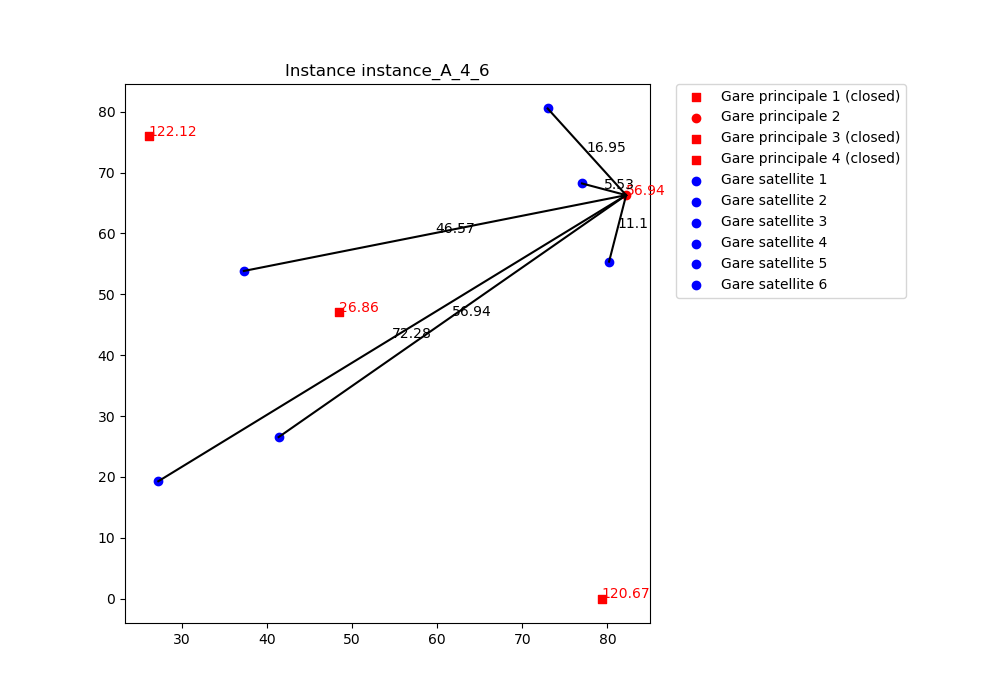
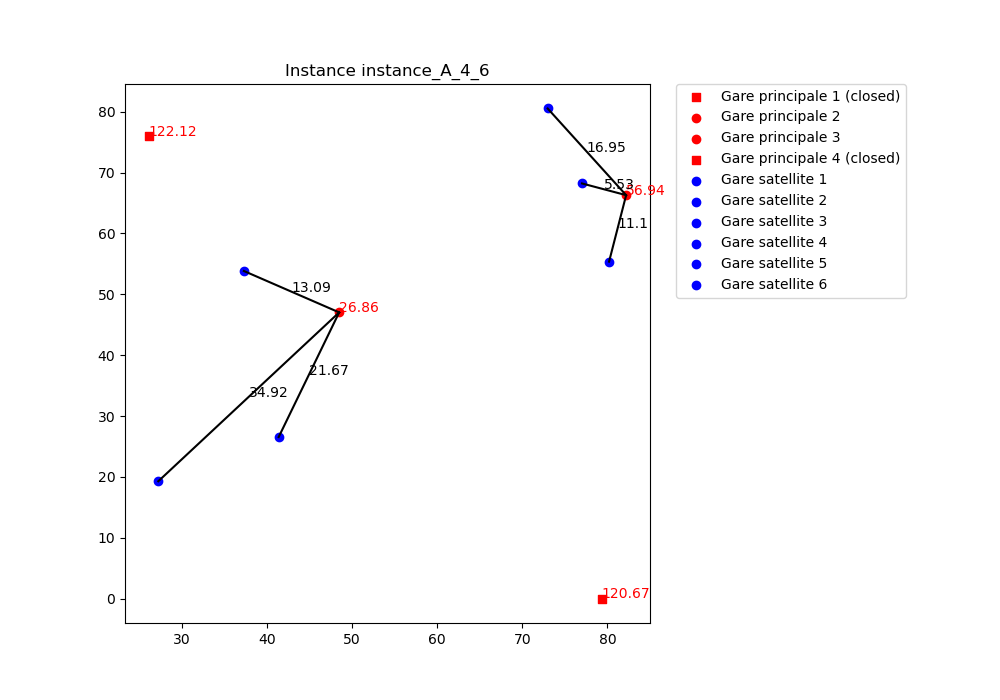
local search

diff --git a/Devoir_2/RechercheLocale/solver.py b/Devoir_2/RechercheLocale/solver.py
@@ -1,11 +1,23 @@
 from uflp import UFLP
+import random
 from typing import List, Tuple
 """ 
     Binome 1 : Nom Prenom (Matricule)
     Binome 2 : Nom Prenom (Matricule)
     Description succinte de l'implementation :
+
+    L'implémentation de recherche locale que nous avons réalisée se base sur la métaheuristique des restarts.
+    Lorsque l'algorithme atteint un minimum local, il redémarre à partir d'une nouvelle solution initiale aléatoire.
+
+    Les solutions initiales sont obtenues en utilisant deux heuristiques différentes:
+        - La première heuristique est se base sur le coût total de la solution, c'est-à-dire le coût d'ouverture des
+          gares principales et le coût d'association des gares satellites aux gares principales.
+        - La deuxième heuristique est quant à elle basée uniquement sur le cout d'association des gares satellites
+          aux gares principales.
     ...
 """
+
+NUMBER_OF_RESTARTS = 6
 
 def solve(problem: UFLP) -> Tuple[List[int], List[int]]:
     """
@@ -19,4 +31,174 @@ def solve(problem: UFLP) -> Tuple[List[int], List[int]]:
         La premiere valeur est une liste représentant les stations principales ouvertes au format [0, 1, 0] qui indique que seule la station 1 est ouverte
         La seconde valeur est une liste représentant les associations des stations satellites au format [1 , 4] qui indique que la premiere station est associée à la station pricipale d'indice 1 et la deuxieme à celle d'indice 4
     """
-    return None, None
+
+    random_main_opened, random_satellite_association = random_solution(problem)
+    
+    # Variables to store the two initial solutions
+    assoc_sol_heuristic = random_main_opened.copy(), random_satellite_association.copy()
+    total_cost_sol_heuristic = random_main_opened.copy(), random_satellite_association.copy()
+
+    total_cost_sol_heuristic = find_solution_by_heuristic(problem, total_cost_sol_heuristic, heuristic='total_cost')
+    assoc_sol_heuristic = find_solution_by_heuristic(problem, assoc_sol_heuristic, heuristic='association_cost')
+
+    assoc_cost_heuristic = problem.calculate_cost(assoc_sol_heuristic[0], assoc_sol_heuristic[1])
+    total_cost_heuristic = problem.calculate_cost(total_cost_sol_heuristic[0], total_cost_sol_heuristic[1])
+
+    heuristic_costs = [assoc_cost_heuristic, total_cost_heuristic]
+    heuristic_solutions = [assoc_sol_heuristic, total_cost_sol_heuristic]
+
+    # Store the current lowest cost and its solution
+    best_design_cost = min(heuristic_costs)
+    best_design_sol = heuristic_solutions[heuristic_costs.index(best_design_cost)]
+
+    current_cost = 0
+    current_solution = []
+
+    # Local Search with restarts
+    for i in range(NUMBER_OF_RESTARTS):
+
+        # Use each initial solution on half of the restarts
+        if max(heuristic_costs) > (min(heuristic_costs) * 2):
+            current_cost = min(heuristic_costs)
+            current_solution = heuristic_solutions[heuristic_costs.index(current_cost)]
+        else:
+            current_cost = heuristic_costs[i % 2]
+            current_solution = heuristic_solutions[i % 2]
+
+        local_min_found = False
+
+        # Iterate until a local minima is found
+        while not local_min_found:
+
+            # Boolean variable for neighbor with better cost found
+            updated_solution = False
+
+            neighbours = get_neighbours(problem, current_solution)
+
+            # Update cost and solution if better neighbor found
+            for main_neighbour, satellite_neighbour in neighbours:
+                cost = problem.calculate_cost(main_neighbour, satellite_neighbour)
+                
+                if cost < current_cost:
+                    current_cost = cost
+                    current_solution = main_neighbour, satellite_neighbour
+                    updated_solution = True
+            
+            # If a lower cost is not found, we have reached a local minima
+            if not updated_solution:
+                local_min_found = True
+
+        # Store the optimal solution found
+        if current_cost < best_design_cost:
+            best_design_cost = current_cost
+            best_design_sol = current_solution[0], current_solution[1]
+
+    return best_design_sol
+
+def get_neighbours(
+    problem: UFLP,
+    current_solution: Tuple[List[int], List[int]]
+) -> List[Tuple[List[int], List[int]]]:
+    _, satellite_association = current_solution
+    neighbours = []
+
+    for sat_index, main_index in enumerate(satellite_association):
+
+        random_sat_index_1 = random.choice([i for i in range(len(satellite_association)) if sat_index != i])
+        random_sat_index_2 = random.choice([i for i in range(len(satellite_association)) if sat_index != i and random_sat_index_1 != i])
+
+        for main_i in range(problem.n_main_station):
+            if main_index != main_i:
+                # Change main station of the current satellite station
+                sat_neighbour = satellite_association.copy()
+                sat_neighbour[sat_index] = main_i
+                if sat_neighbour not in neighbours:
+                    main_neighbour = [1 if i in sat_neighbour else 0 for i in range(problem.n_main_station)]
+                    neighbours.append((main_neighbour, sat_neighbour))
+
+                # Change main station of random_sat_index_1
+                random_main_i = random.choice([i for i in range(problem.n_main_station) if satellite_association[random_sat_index_1] != i])
+                random_sat_neighbour = satellite_association.copy()
+                random_sat_neighbour[sat_index] = main_i
+                random_sat_neighbour[random_sat_index_1] = random_main_i
+                if random_sat_neighbour not in neighbours:
+                    random_main_neighbour = [1 if i in random_sat_neighbour else 0 for i in range(problem.n_main_station)]
+                    neighbours.append((random_main_neighbour, random_sat_neighbour))
+
+                # Change main station of random_sat_index_2
+                random_main_i_2 = random.choice([i for i in range(problem.n_main_station) if satellite_association[random_sat_index_2] != i])
+                random_sat_neighbour_2 = satellite_association.copy()
+                random_sat_neighbour_2[sat_index] = main_i
+                random_sat_neighbour_2[random_sat_index_1] = random_main_i
+                random_sat_neighbour_2[random_sat_index_2] = random_main_i_2
+                if random_sat_neighbour_2 not in neighbours:
+                    random_main_neighbour_2 = [1 if i in random_sat_neighbour_2 else 0 for i in range(problem.n_main_station)]
+                    neighbours.append((random_main_neighbour_2, random_sat_neighbour_2))
+
+    return neighbours
+
+
+def find_solution_by_heuristic(
+    problem: UFLP,
+    solution: Tuple[List[int], List[int]],
+    heuristic: str = 'total_cost'
+) -> Tuple[List[int], List[int]]:
+    """
+    Trouve la solution initiale guidée par le coût total ou seulement par le coût d'association.
+
+    Args:
+        problem (UFLP): L'instance du problème.
+        solution (Tuple[List[int], List[int]]): La solution initiale.
+        heuristic (bool): Indique si la solution doit être guidée par le coût total (True) ou seulement par le coût d'association (False).
+
+    Returns:
+        Tuple[List[int], List[int]]: La solution initiale mise à jour.
+    """
+    main_stations_opened, satellite_station_association = solution
+
+    for satellite_i, main_station in enumerate(satellite_station_association):
+        old_cost = problem.get_opening_cost(main_station) + problem.get_association_cost(main_station, satellite_i)
+        if heuristic == 'total_cost':
+            old_cost = problem.get_opening_cost(main_station) + problem.get_association_cost(main_station, satellite_i)
+        else:
+            old_cost = problem.get_association_cost(main_station, satellite_i)
+
+        for main_i in range(problem.n_main_station):
+            if main_station != main_i:
+                new_cost = problem.get_opening_cost(main_i) + problem.get_association_cost(main_i, satellite_i) if heuristic == 'total_cost' else problem.get_association_cost(main_i, satellite_i)
+
+                if new_cost < old_cost:
+                    satellite_station_association[satellite_i] = main_i
+                    main_stations_opened = [1 if i in satellite_station_association else 0 for i in range(problem.n_main_station)]
+                    solution = main_stations_opened, satellite_station_association
+                    old_cost = new_cost
+
+    return solution
+
+
+
+def random_solution(problem: UFLP) -> Tuple[List[int], List[int]]:
+    """
+    Retourne une solution aléatoire au probleme : à battre pour avoir la moyenne.
+
+    Args:
+        problem (UFLP): L'instance du probleme à résoudre
+
+    Returns:
+        Tuple[List[int], List[int]]: 
+        La premiere valeur est une liste représentant les stations principales ouvertes au format [0, 1, 0] qui indique que seule la station 1 est ouverte
+        La seconde valeur est une liste représentant les associations des stations satellites au format [1 , 4] qui indique que la premiere station est associée à la station pricipale d'indice 1 et la deuxieme à celle d'indice 4
+    """
+
+    # Ouverture aléatoire des stations principales
+    main_stations_opened = [random.choice([0,1]) for _ in range(problem.n_main_station)]
+
+    # Si, par hasard, rien n'est ouvert, on ouvre une station aléatoirement
+    if sum(main_stations_opened) == 0:
+        main_stations_opened[random.choice(range(problem.n_main_station))] = 1
+
+    # Association aléatoire des stations satellites aux stations principales ouvertes
+    indices = [i for i in range(len(main_stations_opened)) if main_stations_opened[i] == 1]
+    satellite_station_association = [random.choice(indices) for _ in range(problem.n_satellite_station)]
+
+    return main_stations_opened, satellite_station_association
